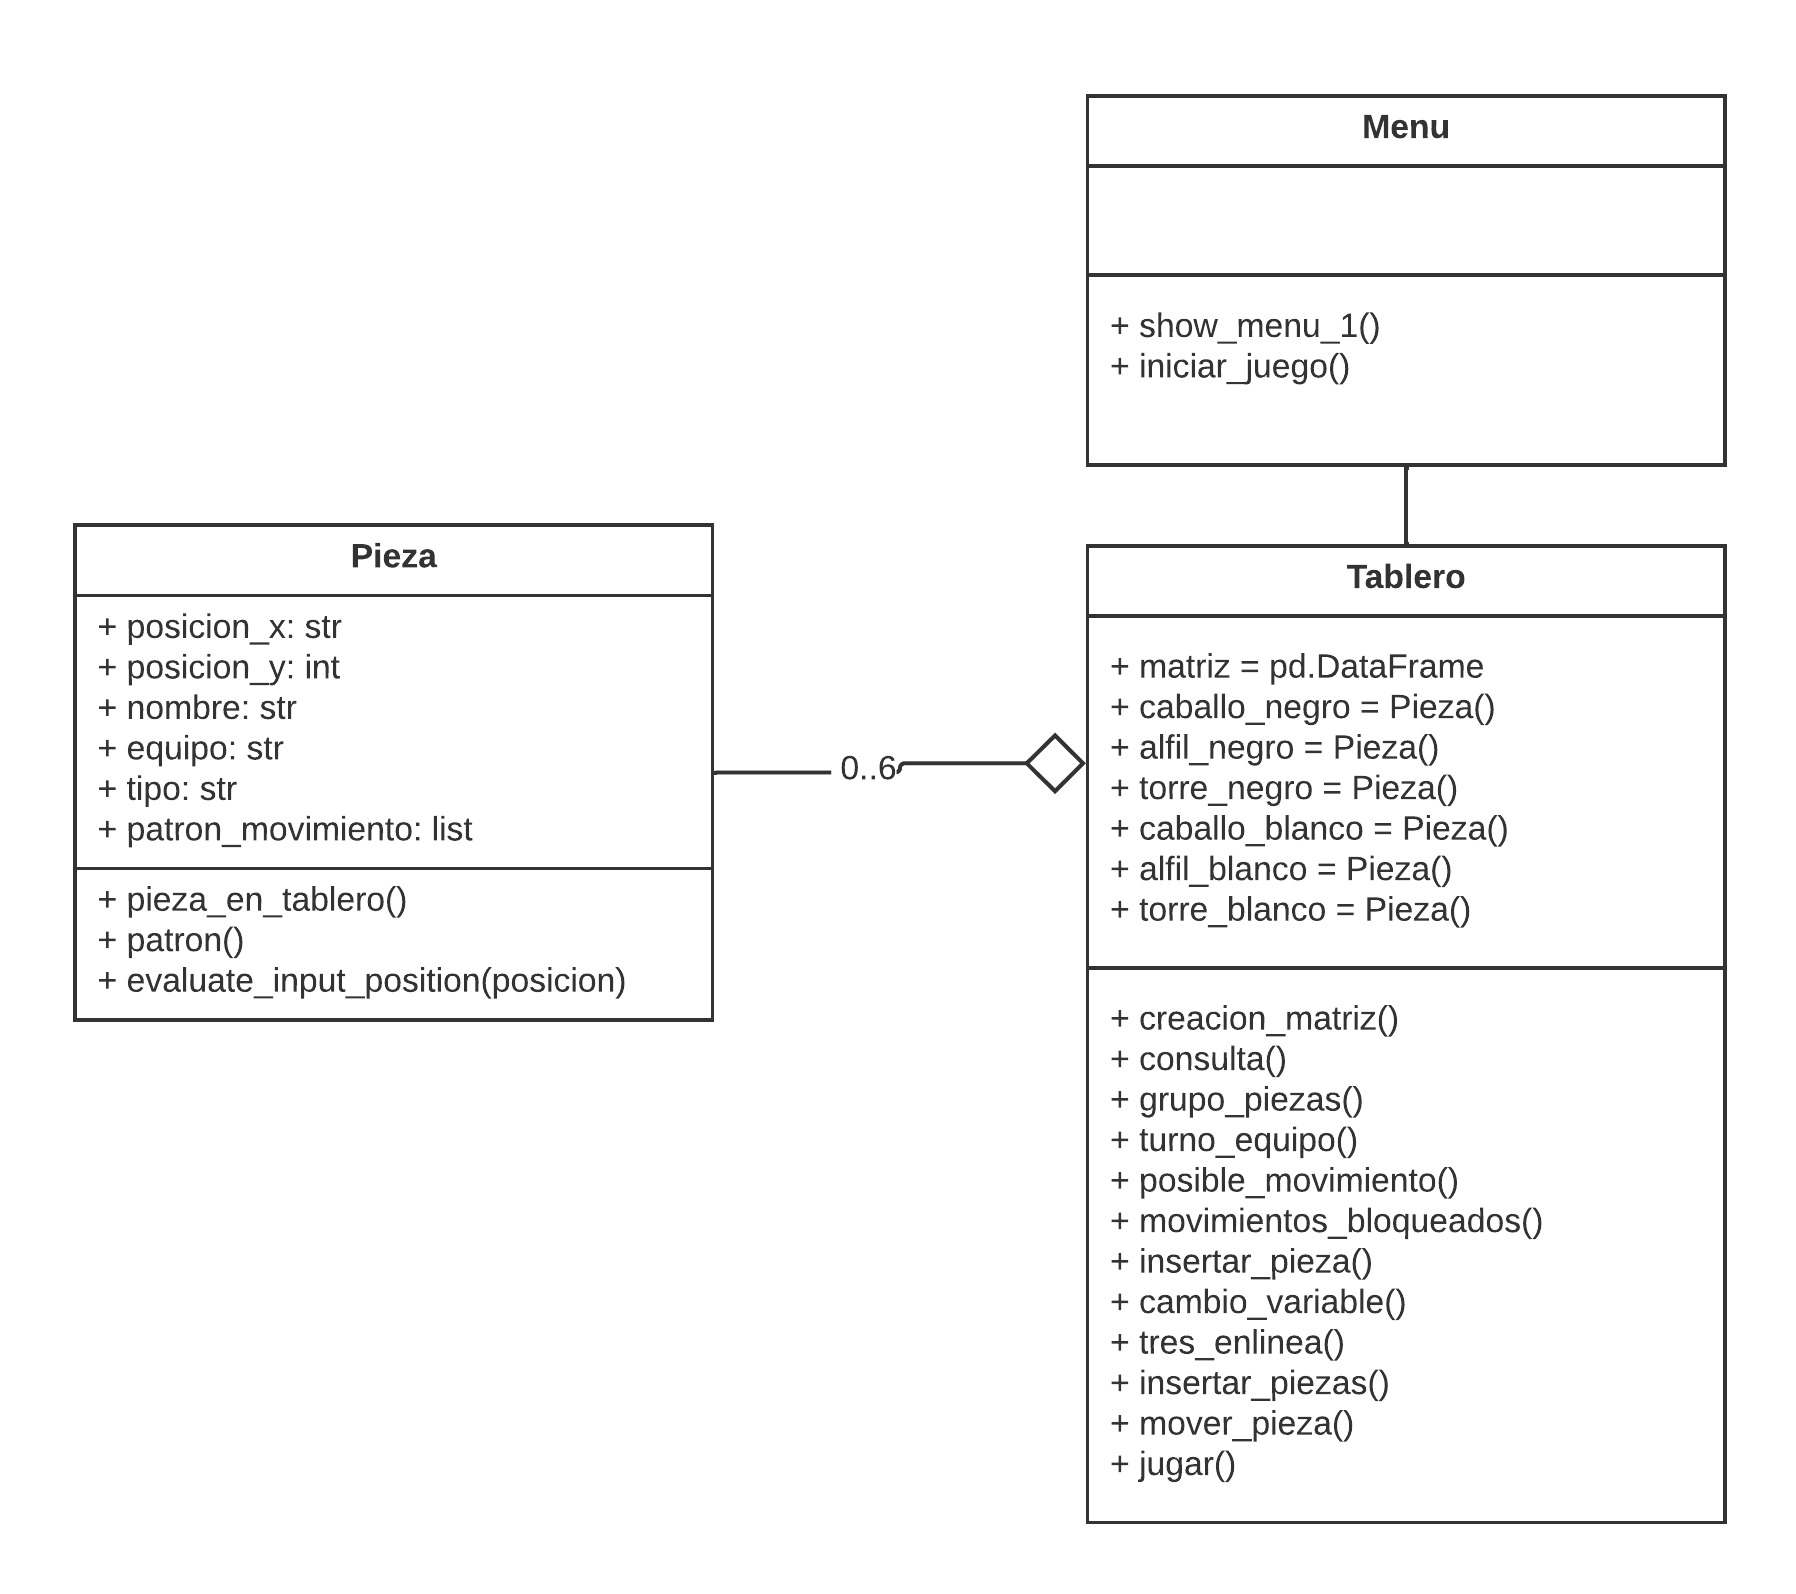
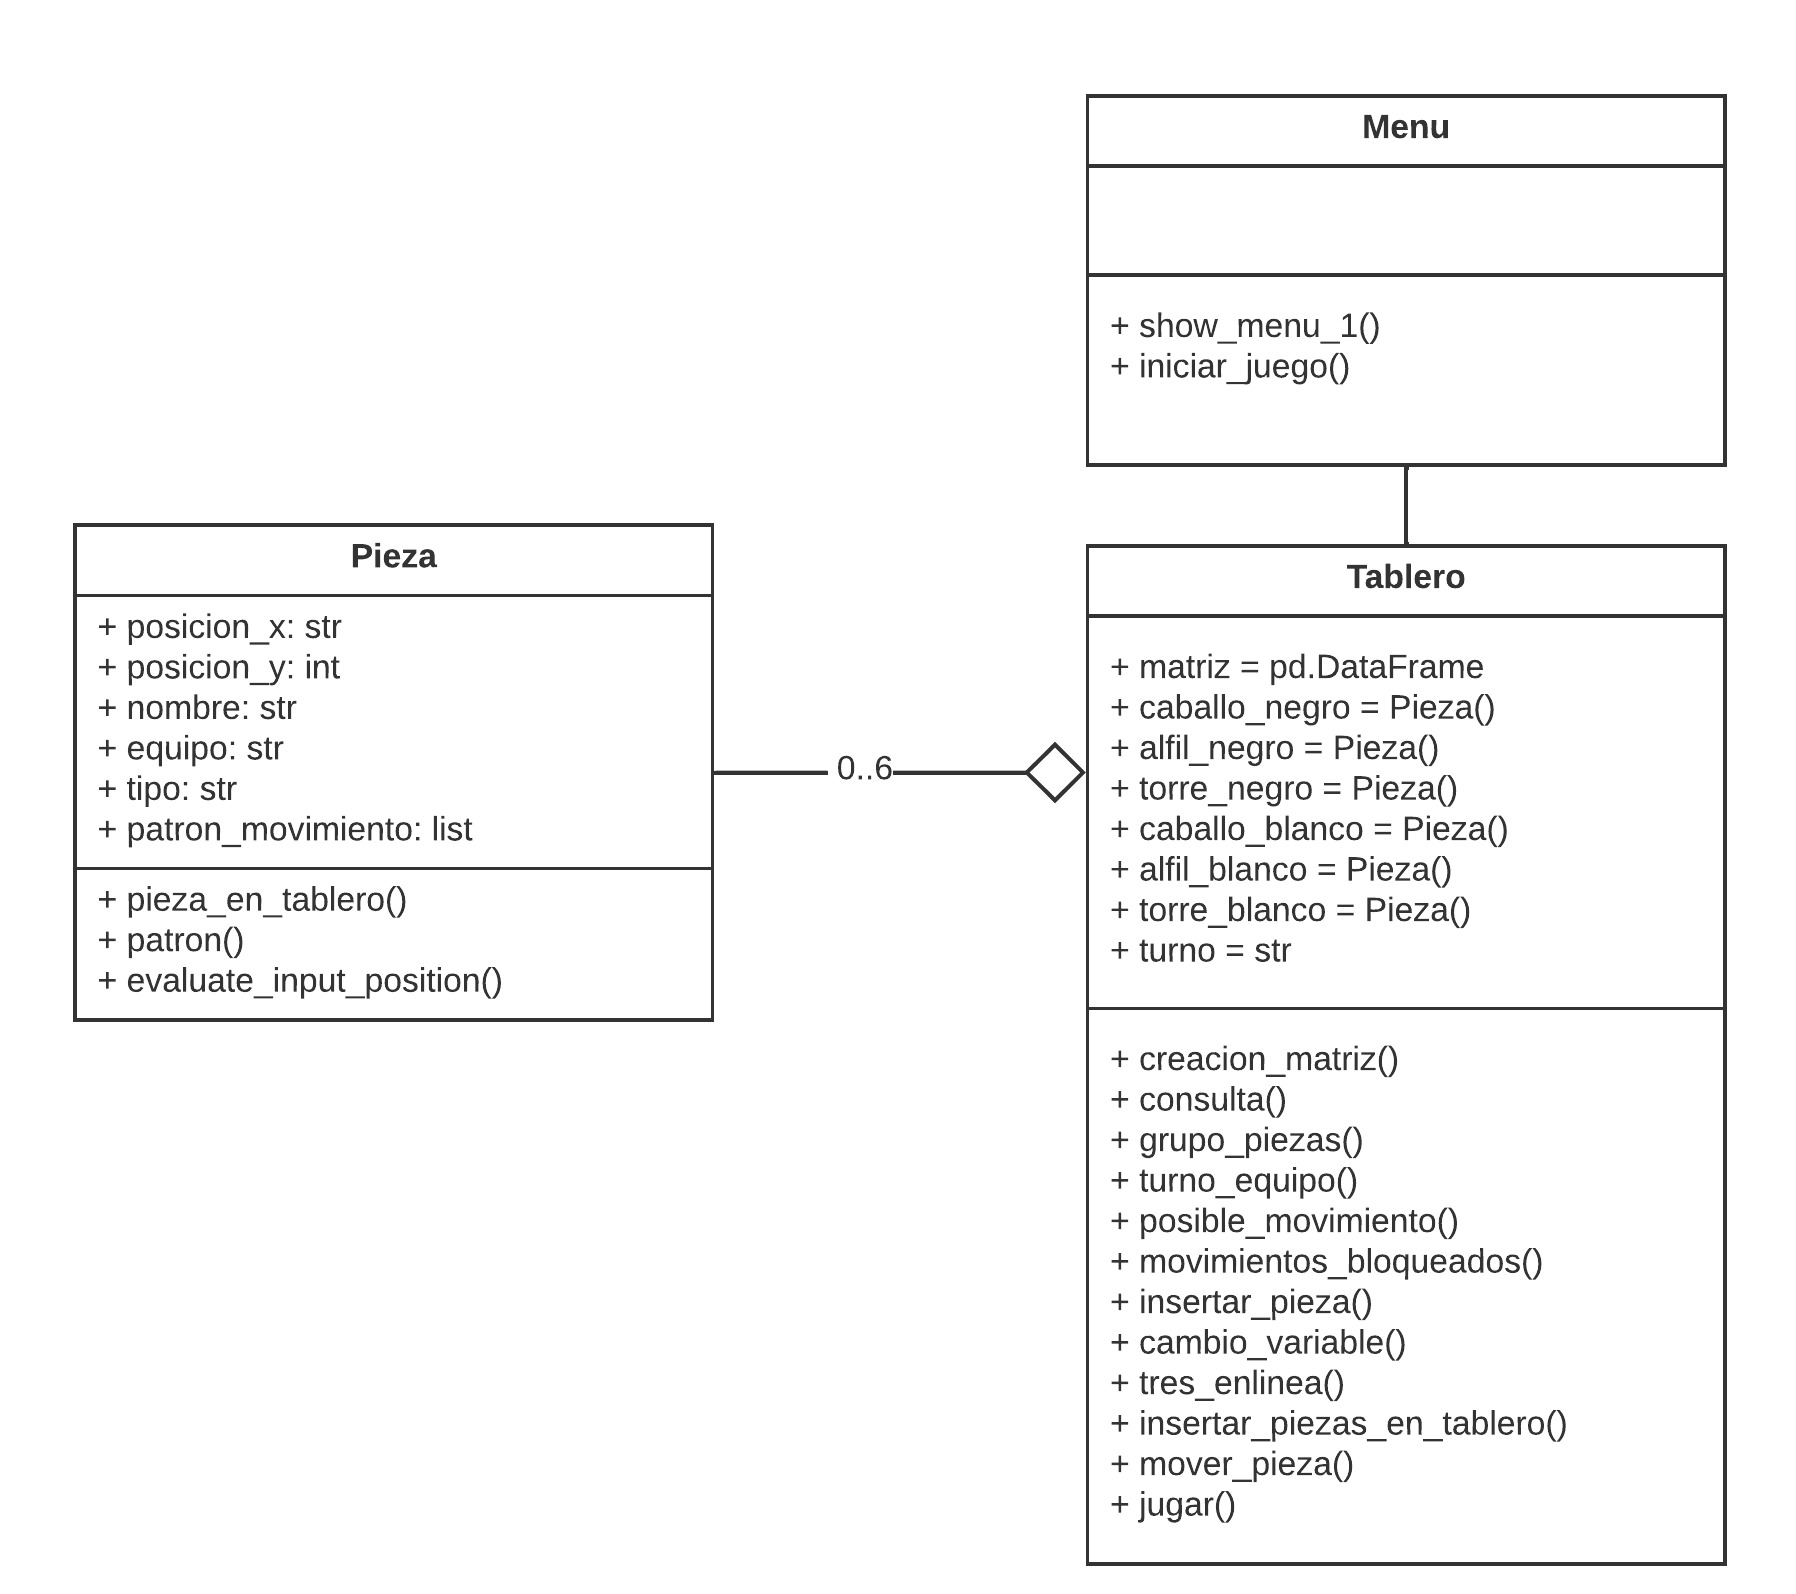
Modificacion de nombre clase insertar_piezas por insertar_piezas_en_tablero para evitar complicaciones con insertar_pieza. Modificacion del diagrama de clases

diff --git a/tests/test_clase_tablero.py b/tests/test_clase_tablero.py
@@ -18,7 +18,7 @@ def test_consulta(monkeypatch, expected, capsys):
   inputs = iter(["2", "b2", "1", "b3", "1", "a3", "3", "c1", "3", "a1", "2", "a2"])
   monkeypatch.setattr("builtins.input", lambda _: next(inputs))
   with capsys.disabled():
-    c.insertar_piezas()
+    c.insertar_piezas_en_tablero()
   c.consulta()
   captured = capsys.readouterr().out.split("\n")
   assert captured == expected
@@ -68,12 +68,12 @@ def test_mover_pieza(monkeypatch, test_input, expected):
                                                   str(pd.DataFrame(np.array([[Tablero().torre_blanco, None, Tablero().torre_negro],
                                                   [Tablero().alfil_negro, Tablero().caballo_blanco, None],
                                                   [Tablero().alfil_blanco, None, Tablero().caballo_negro]]), columns=['a', 'b', 'c'], index=[1,2,3])))])
-def test_insertar_piezas(monkeypatch, test_input, expected):
+def test_insertar_piezas_en_tablero(monkeypatch, test_input, expected):
   inputs = iter(test_input)
   c = Tablero()
   c.turno = "Negro"
   monkeypatch.setattr("builtins.input", lambda _: next(inputs))
-  assert str(c.insertar_piezas()) == expected
+  assert str(c.insertar_piezas_en_tablero()) == expected
 
 
 
@@ -85,7 +85,7 @@ def test_movimientos_bloqueados(monkeypatch, test_input, expected):
   c.turno = "Negro"
   inputs = iter(test_input)
   monkeypatch.setattr("builtins.input", lambda _: next(inputs))
-  c.insertar_piezas()
+  c.insertar_piezas_en_tablero()
   c.turno = "Blanco"
   assert c.movimientos_bloqueados() == expected
 
@@ -100,7 +100,7 @@ def test_tres_enlinea(monkeypatch, test_input, expected):
   c = Tablero()
   inputs = iter(test_input)
   monkeypatch.setattr("builtins.input", lambda _: next(inputs))
-  c.insertar_piezas()
+  c.insertar_piezas_en_tablero()
   assert c.tres_enlinea() == expected
 
 @pytest.mark.parametrize("test_input, expected",
@@ -118,7 +118,7 @@ def test_posible_movimiento(monkeypatch, test_input, expected):
   c = Tablero()
   inputs = iter(["2", "b2", "1", "b3", "1", "a3", "3", "c1", "3", "a1", "2", "a2"])
   monkeypatch.setattr("builtins.input", lambda _: next(inputs))
-  c.insertar_piezas()
+  c.insertar_piezas_en_tablero()
   c.turno_equipo()
   assert c.posible_movimiento(c.grupo_piezas()[test_input]) == expected
 

diff --git a/clase_tablero.py b/clase_tablero.py
@@ -179,7 +179,7 @@ class Tablero(Pieza):
     self.consulta()
 
 
-  def insertar_piezas(self):
+  def insertar_piezas_en_tablero(self):
     diccionario_turno = dict
     diccionario_blanco = {
           1:self.caballo_blanco,
@@ -241,7 +241,7 @@ class Tablero(Pieza):
   def jugar(self):
     condition_play = True
     self.consulta()
-    self.insertar_piezas()
+    self.insertar_piezas_en_tablero()
     if self.movimientos_bloqueados() == 0:
       print("---------------------\nLas piezas se encuentran bloqueadas, finaliza el juego")
       return 0
